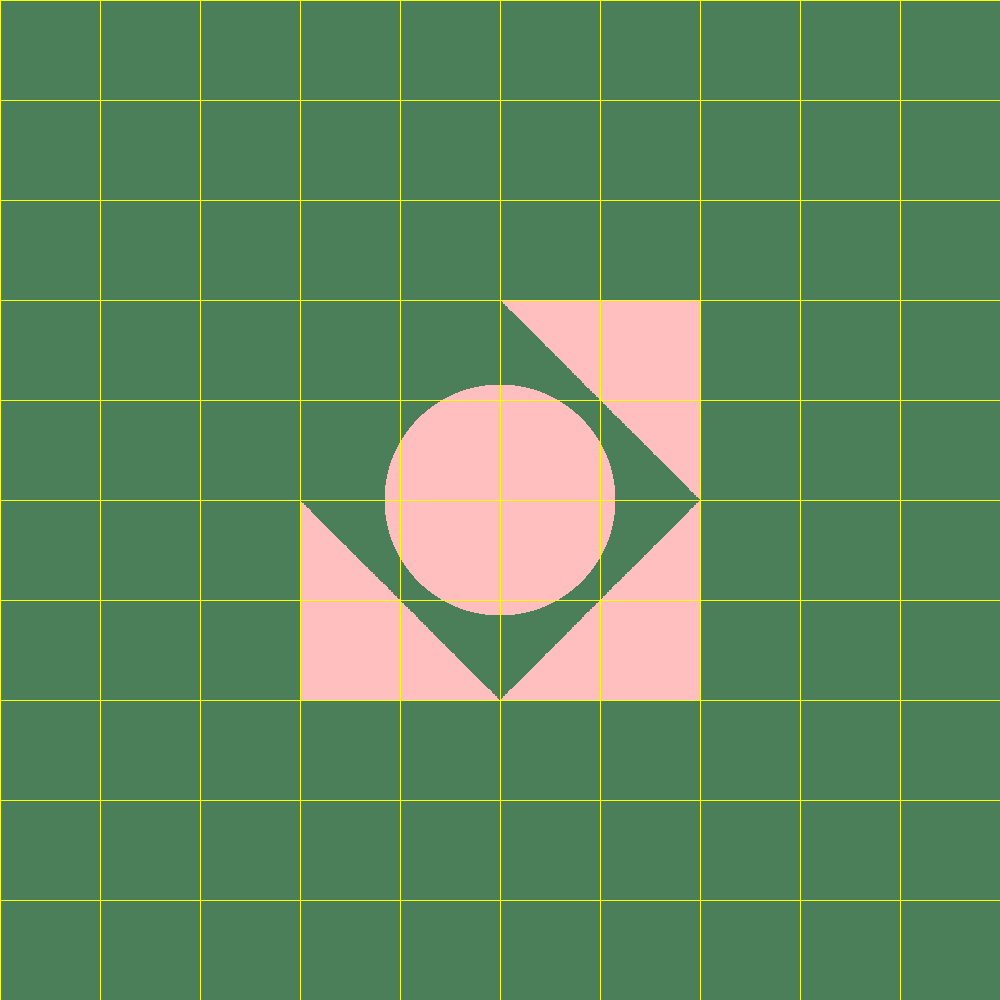
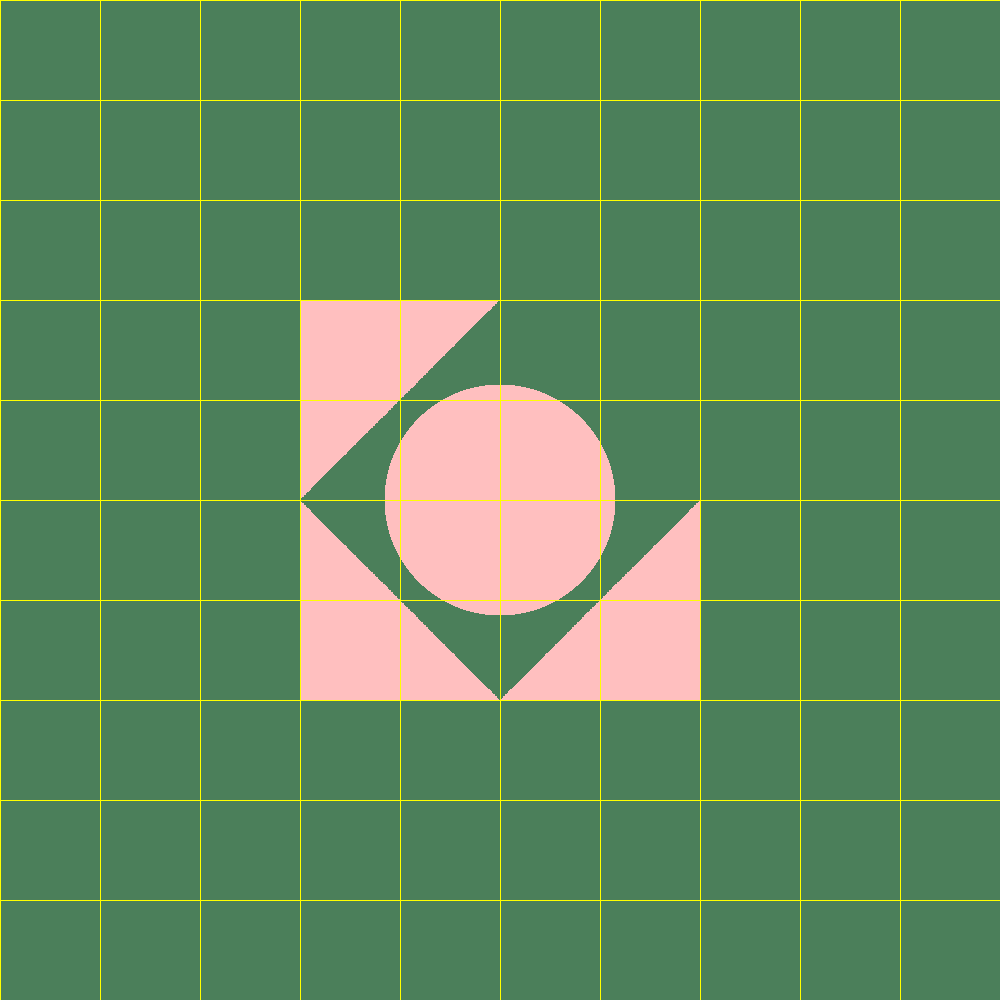
///

Changed region(s): [[0.279, 0.279, 0.713, 0.496]]

diff --git a/unitTests/renderer/IntegrationTests.java b/unitTests/renderer/IntegrationTests.java
@@ -28,55 +28,21 @@ public class IntegrationTests {
             .setDirection(new Vector(0,1,0),new Vector(0,0,1))
             .setVpSize(6,6)
             .setVpDistance(1)
-            .setRayTracer(new SimpleRayTracer(s))                                 //todo:why do we need this line?
-            .setImageWriter(new ImageWriter("check",300,300)) //todo:why do we need this line?
+            .setRayTracer(new SimpleRayTracer(s))
+            .setImageWriter(new ImageWriter("check",300,300))
             .build();
     //**************************************************************
-/*
-    int func1(Camera c, Sphere sphere) { //get camera and sphere and return num of intresction from every ray in the view plane
-        List<Point> l;
-        Ray r;
-        for (int i = 0; i < 3; i++) {
-            for (int j = 0; j < 3; j++) {
-                r = c.constructRay(3, 3, j, i);
-                l = sphere.findIntersections(r);
-                result += l.size();
-            }
-        }
-        return result;
-    }
-    int func2(Camera c, Plane plane){ //get camera and plane and return num of intresction from every ray in the view plane
-        List<Point> l;
-        Ray r;
-        for (int i = 0; i < 3; i++) {
-            for (int j = 0; j < 3; j++) {
-                r = c.constructRay(3, 3, j, i);
-                l = plane.findIntersections(r); // here is the only differnt from func1
-                result += l.size();
-            }
-        }
-        return result;
-    }
-    int func3(Camera c, Triangle triangle) {//get camera and triangle and return num of intresction from every ray in the view plane
-        List<Point> l;
-        Ray r;
-        for (int i = 0; i < 3; i++) {
-            for (int j = 0; j < 3; j++) {
-                r = c.constructRay(3, 3, j, i);
-                l = triangle.findIntersections(r); // here is the only differnt from func2
-                result += l.size();
-            }
-        }
-        return result;
-    }*/
+
     int func(Camera c, Intersectable obj) {//get camera and triangle and return num of intresction from every ray in the view plane
         List<Point> l;
         Ray r;
-        for (int i = 50; i < 300; i+=100) { // 300 because we want to builde and paint ray for pixels
-            for (int j = 50; j < 300; j+=100) { // 300 because we want to builde and paint ray for pixels
-                r = c.constructRay(300, 300, j, i); //todo: it not really nx ny, its not pixel here // and why i cant rech nx ny throw camera
+        for (int i = 50; i < 300; i+=100) {
+            for (int j = 50; j < 300; j+=100) {
+                r = c.constructRay(300, 300, j, i);
                 l = obj.findIntersections(r);
-                result += l.size(); //todo: i did that everybody return emptylist and not null , but if we do return null then we need if here
+                if(l!=null){
+                    result += l.size();
+                }
             }
         }
         return result;
@@ -147,11 +113,12 @@ public class IntegrationTests {
         assertEquals(9, result1, "Wrong number of points");
 
         result=0;
+         //Plane plane2= new Plane(new Point(0,7,0),new Point(1,7,1), new Point(-1,7,-1));
+        //Plane plane2= new Plane(new Point(0,0,8),new Point(1,2,6), new Point(-1,3,5));
 
         //case2 - plane intrection view plane once and has 9 point
         c.setLocation(new Point(0,0,0));
-        //Plane plane2= new Plane(new Point(0,7,0),new Point(1,7,1), new Point(-1,7,-1));
-        Plane plane2= new Plane(new Point(0,0,8),new Point(1,2,6), new Point(-1,3,5));
+        Plane plane2= new Plane(new Point(0,0,5),new Vector(0,1,2));
         result2 += func(c,plane2);
         assertEquals(9, result2, "Wrong number of points");
 

diff --git a/unitTests/renderer/RenderTests.java b/unitTests/renderer/RenderTests.java
@@ -18,7 +18,7 @@ public class RenderTests {
    private final Camera.Builder camera = Camera.getBuilder()
       .setRayTracer(new SimpleRayTracer(scene))
       .setLocation(Point.ZERO)
-      .setDirection(new Vector(0, 1, 0), new Vector(0,0,-1)) //to do: i switch vup&vto
+      .setDirection(new Vector(0, 1, 0), new Vector(0,0,1)) //to do: i switch vup&vto
       .setVpDistance(100)
       .setVpSize(500, 500);
 
@@ -26,13 +26,13 @@ public class RenderTests {
     * grid */
    @Test
    public void renderTwoColorTest() {
-      scene.geometries.add(new Sphere(50,new Point(0, 0, -100)),
-                           new Triangle(new Point(-100, 0, -100), new Point(0, 100, -100), new Point(-100, 100, -100)), // up
+      scene.geometries.add(new Sphere(50,new Point(0, 0, 100)),
+                           new Triangle(new Point(-100, 0, 100), new Point(0, 100, 100), new Point(-100, 100, 100)), // up
                            // left
-                           new Triangle(new Point(-100, 0, -100), new Point(0, -100, -100),
-                                        new Point(-100, -100, -100)), // down
+                           new Triangle(new Point(-100, 0, 100), new Point(0, -100, 100),
+                                        new Point(-100, -100, 100)), // down
                            // left
-                           new Triangle(new Point(100, 0, -100), new Point(0, -100, -100), new Point(100, -100, -100))); // down
+                           new Triangle(new Point(100, 0, 100), new Point(0, -100, 100), new Point(100, -100, 100))); // down
       scene.setAmbientLight(new AmbientLight(new Color(255, 191, 191), Double3.ONE))
          .setBackground(new Color(75, 127, 90));
 

diff --git a/src/geometries/Sphere.java b/src/geometries/Sphere.java
@@ -42,7 +42,7 @@ public class Sphere extends RadialGeometry {
         //*****************************************************************************
         if (d >= this.radius) { //no intrection
             // If d is greater or equles than the radius, there can't be any intersections.
-            return intersections; //todo:here we return null and down we return empty list
+            return null;
         }
         //*****************************************************************************
         // Proceed with calculation since there are two intersection points
@@ -63,6 +63,9 @@ public class Sphere extends RadialGeometry {
             intersections.add(p2);
         }
 
+        if(intersections.isEmpty()){
+            return null;
+        }
         return intersections;
     }
 

diff --git a/src/geometries/Plane.java b/src/geometries/Plane.java
@@ -86,12 +86,12 @@ public class Plane implements Geometry {
         Vector a =q.subtract(p0);
 
         if(isZero(normal.dotProduct(a))){ //couse ray start on the plane
-            return emptyList;
+            return null;
         }
         if(isZero(normal.dotProduct(v))){  //couse ray start on the plane
-            return emptyList;
+            return null;
         }
-        t = alignZero(normal.dotProduct(a))/(normal.dotProduct(v));
+        t = alignZero((normal.dotProduct(a))/(normal.dotProduct(v)));
 
         if(t>0){
             p=p0.add(v.scale(t));
@@ -99,7 +99,7 @@ public class Plane implements Geometry {
             return  l;
         }
         else{
-          return emptyList; //todo:was null i change to empty list
+          return null;
         }
     }
 

diff --git a/src/geometries/Triangle.java b/src/geometries/Triangle.java
@@ -18,8 +18,8 @@ public class Triangle extends Polygon{
         List<Point> l =this.plane.findIntersections(ray);
         Vector v = ray.getDirection();
 
-        if(l.isEmpty()){
-            return emptyList; //todo:was null i change to empty list
+        if(l==null){
+            return null; //todo:was null i change to empty list
         }
         else{
             Point p0 =this.vertices.getFirst();
@@ -42,7 +42,7 @@ public class Triangle extends Polygon{
                 return l;
             }
             else{
-                return emptyList;
+                return null;
             }
         }
     }
